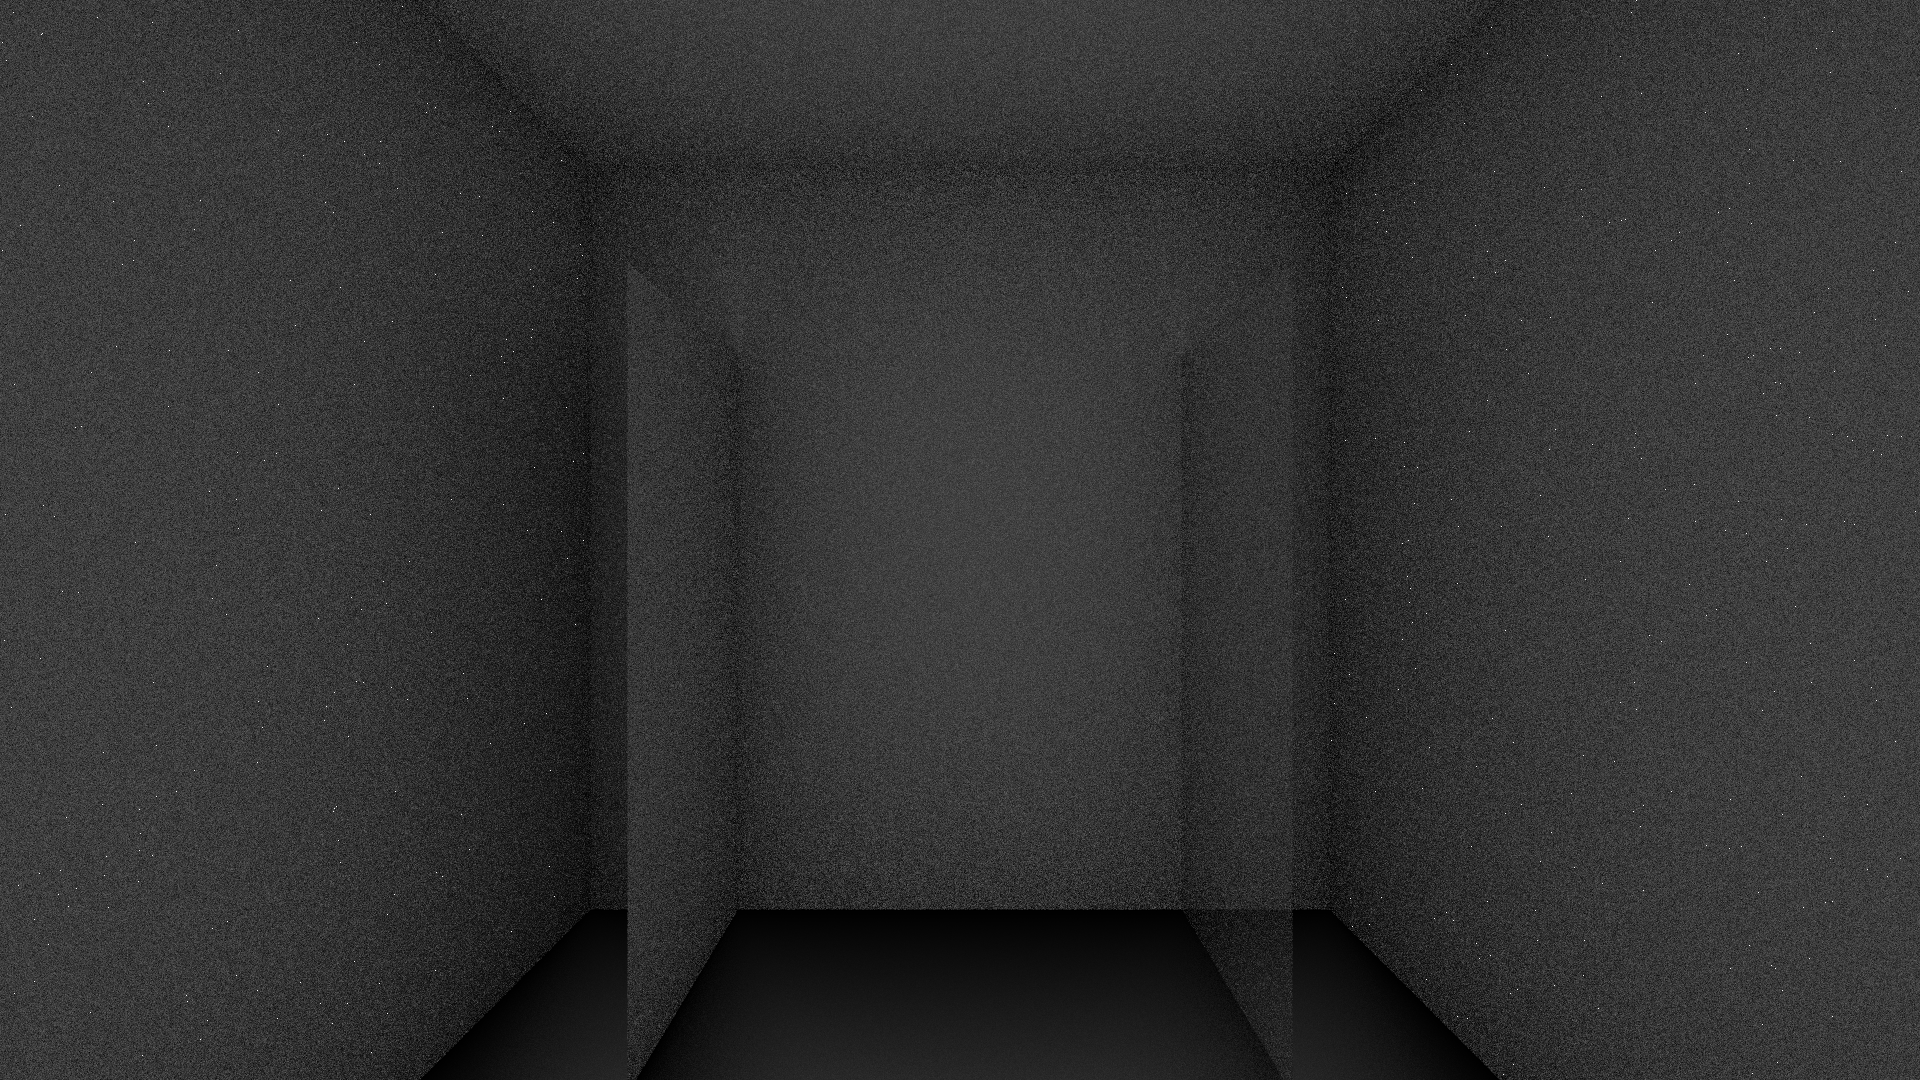
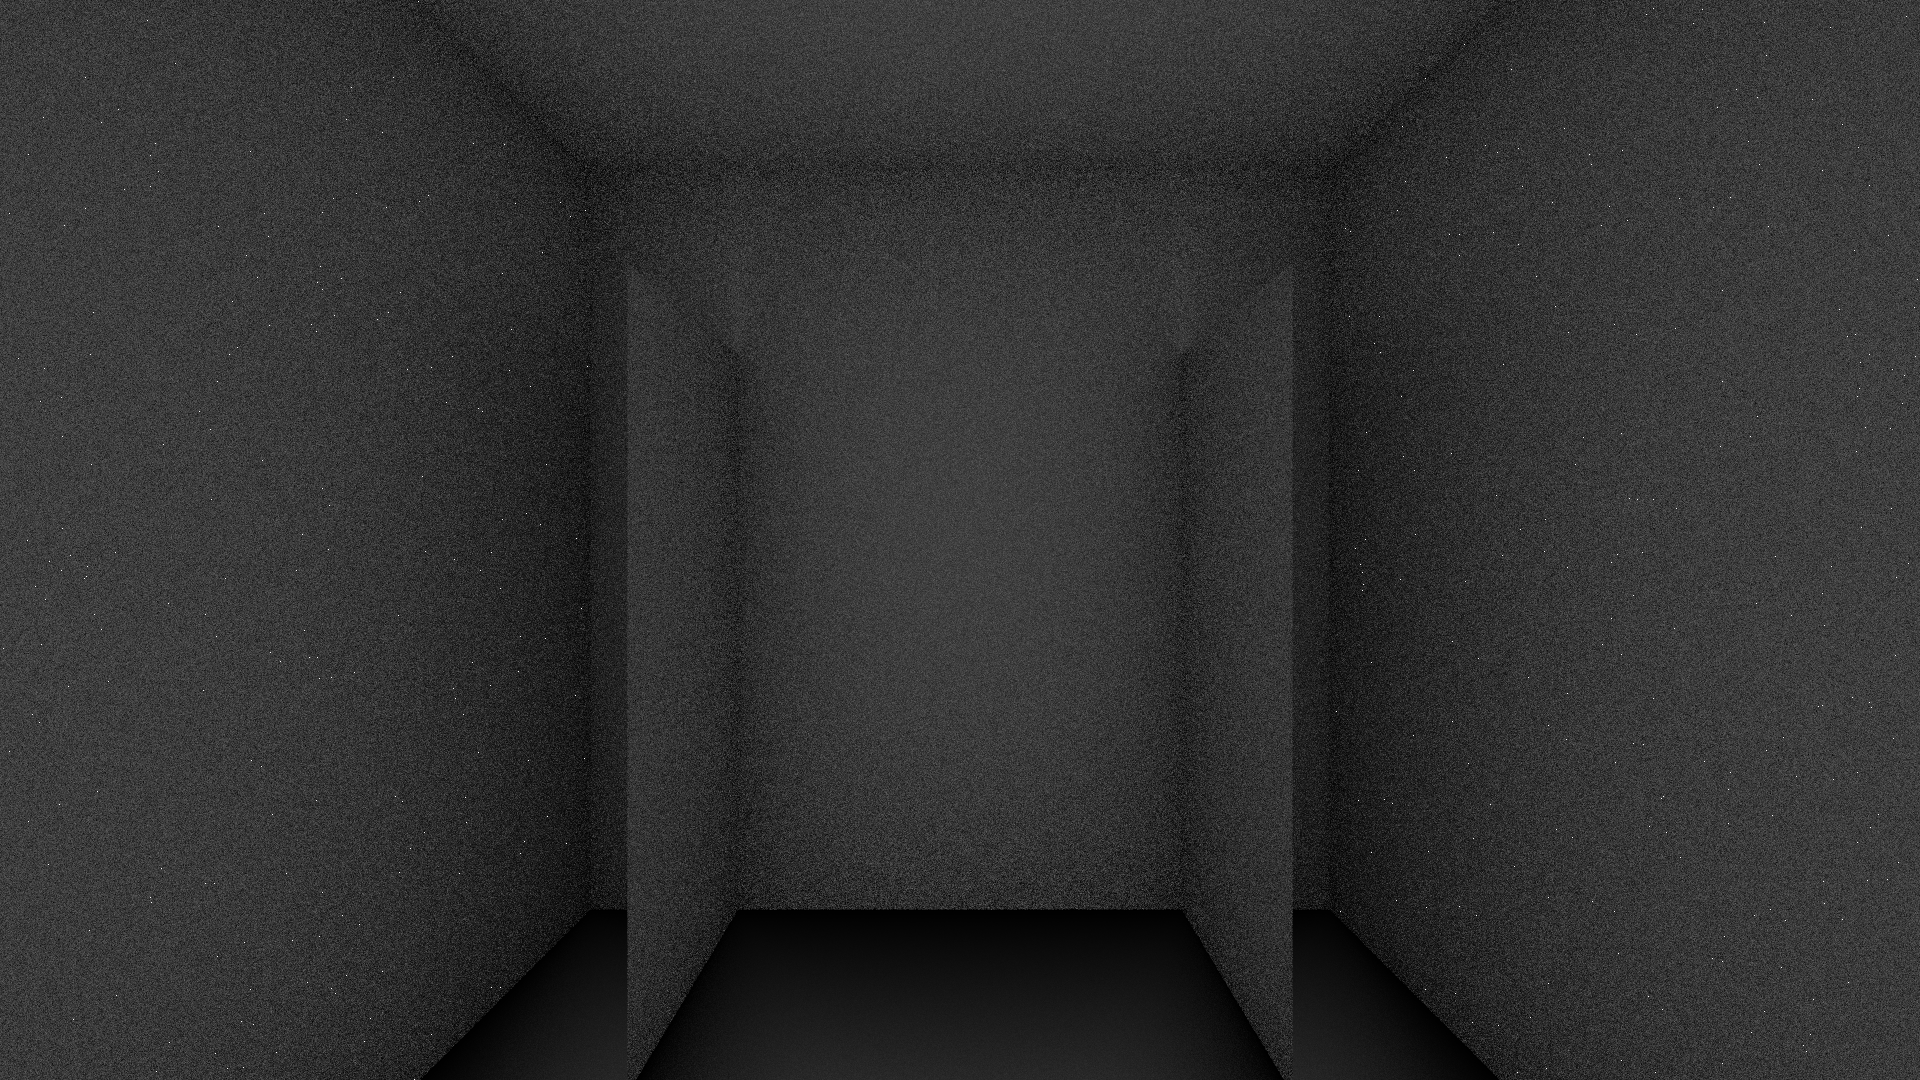
Updated samples.

Changed region(s): [[0.0, 0.0, 1.0, 1.0]]

diff --git a/PathTracer/Program.cs b/PathTracer/Program.cs
@@ -22,7 +22,7 @@ namespace PathTracer
             }
             Console.ForegroundColor = ConsoleColor.Gray;
             IPathTracerFrameRecorder frameRecorder = new PngPathTracerFrameRecorder();
-            for (int i = 0; i < 1; i++)
+            for (int i = 0; i < 10; i++)
             {
                 // Scene
                 PathTracerScene scene = new PathTracerScene();
@@ -38,10 +38,10 @@ namespace PathTracer
                 scene.FogDistance = 0;
 
                 // Scene Generation (Light Box)
-                PathTracerSceneGenerator.GenerateLightBox(scene, new Vector3(-200, -200, -200), new Vector3(200, 200, 200));
+                //PathTracerSceneGenerator.GenerateLightBox(scene, new Vector3(-200, -200, -200), new Vector3(200, 200, 200));
 
                 // Scene Generation (Abstract)
-                //PathTracerSceneGenerator.GenerateAbstract(scene, new Vector3(-100, -100, -100), new Vector3(100, 100, 100), 40, 0.1F, 0.3333F);
+                PathTracerSceneGenerator.GenerateAbstract(scene, new Vector3(-100, -100, -100), new Vector3(100, 100, 100), 40, 0.1F, 0.3333F);
 
                 // Options
                 ConsolePercentageDisplay consolePercentageDisplay = new ConsolePercentageDisplay();
@@ -49,9 +49,9 @@ namespace PathTracer
                 options.Width = 3840;
                 options.Height = 2160;
                 options.BounceCount = 8;
-                options.SamplesPerPixel = 1024;
+                options.SamplesPerPixel = 8;
                 options.FrameCount = 1;
-                options.MaxDegreeOfParallelism = 4;
+                options.MaxDegreeOfParallelism = 2;
                 options.PercentageDisplay = consolePercentageDisplay.Display;
                 options.RenderMode = PathTracerRenderMode.PathTracer;
                 options.PixelSampleRate = 1F;

diff --git a/PathTracer/PathTracerEngine.cs b/PathTracer/PathTracerEngine.cs
@@ -56,6 +56,12 @@ namespace PathTracer
                     // Pixel Sample Rate
                     if (RandomHelper.RandomFloat() <= options.PixelSampleRate)
                     {
+                        // Hack to make it play well with others
+                        if (pixelIndex % 64 == 0)
+                        {
+                            Thread.Sleep(1);
+                        }
+
                         // Coordinates
                         int x = pixelIndex % width;
                         int y = pixelIndex / width;
